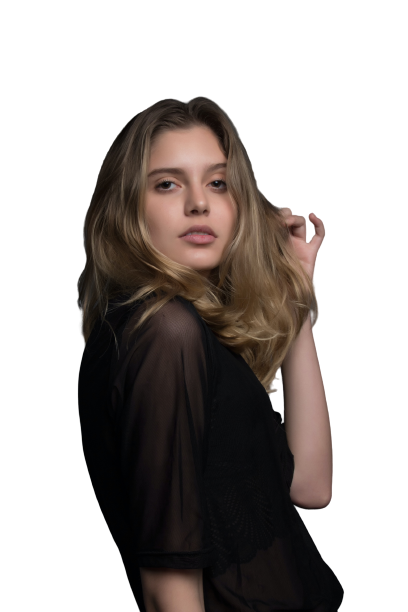
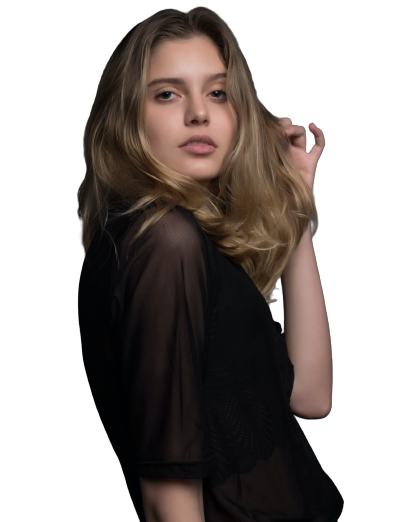
hero section update

Changed region(s): [[0.1765, 0.0, 0.8529, 0.9808], [0.3529, 0.9195, 0.5, 0.9502], [0.3235, 0.9502, 0.3529, 0.9808]]

diff --git a/css/style.css b/css/style.css
@@ -28,10 +28,11 @@ body{
     font-family: var(--FF);
     font-weight: var(--FONT-WEIGHT-LIGHT);
 }
-/* img{
+img{
     display: block;
     width: 100%;
-} */
+    height: 100%;
+}
 .container {
     max-width: 1100px;
     width: calc(100% - 2rem);
@@ -205,5 +206,50 @@ header {
 @media (max-width: 768px) {
     .nav {
         width: 60%;
+    }
+}
+
+/*=== Hero ====*/
+.hero {
+    background-color: var(--BG-HERO-SECTION);
+}
+.hero__wrapper {
+    display: flex;
+    justify-content: space-between;
+    align-items: center;
+    padding-top: 1.5rem;
+}
+.hero__text {
+    flex: 1;
+}
+.hero__img {
+    flex: 1;
+    height: 560px;
+}
+.hero__wrapper .hero__text .hero__title {
+    font-size: 3.7rem;
+    text-transform: capitalize;
+    font-weight: var(--FONT-WEIGHT-REGULAR);
+    line-height: .99;
+    margin-bottom: 1.5rem;
+}
+.hero__wrapper .hero__text .hero__desc {
+    font-size: 1.2rem;
+    margin-bottom: 1.5rem;
+}
+@media (max-width:992px) {
+    .hero__wrapper .hero__text .hero__title {
+        font-size: 3rem;
+    }
+}
+@media (max-width:768px) {
+    .hero__wrapper {
+        padding: 5rem 0;
+    }
+    .hero__wrapper .hero__text .hero__title {
+        font-size: 3rem;
+    }
+    .hero__wrapper .hero__img {
+      display: none;
     }
 }
